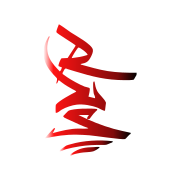
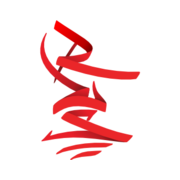
Nouvelle icône d'onglet (ruban rouge), SVG retiré
Claude-Session: https://claude.ai/code/session_01BYhwaiL5JtUT2GnodfN883

Changed region(s): [[0.2222, 0.1111, 0.7778, 0.8889]]

diff --git a/index.html b/index.html
@@ -17,8 +17,8 @@
         height: 100%;
       }
     </style>
-    <link rel="icon" href="/favicon.svg" type="image/svg+xml" />
     <link rel="icon" href="/favicon-32.png" type="image/png" sizes="32x32" />
+    <link rel="icon" href="/favicon-192.png" type="image/png" sizes="192x192" />
     <link rel="apple-touch-icon" href="/apple-touch-icon.png" />
     <!-- figma:head-end -->
   </head>
